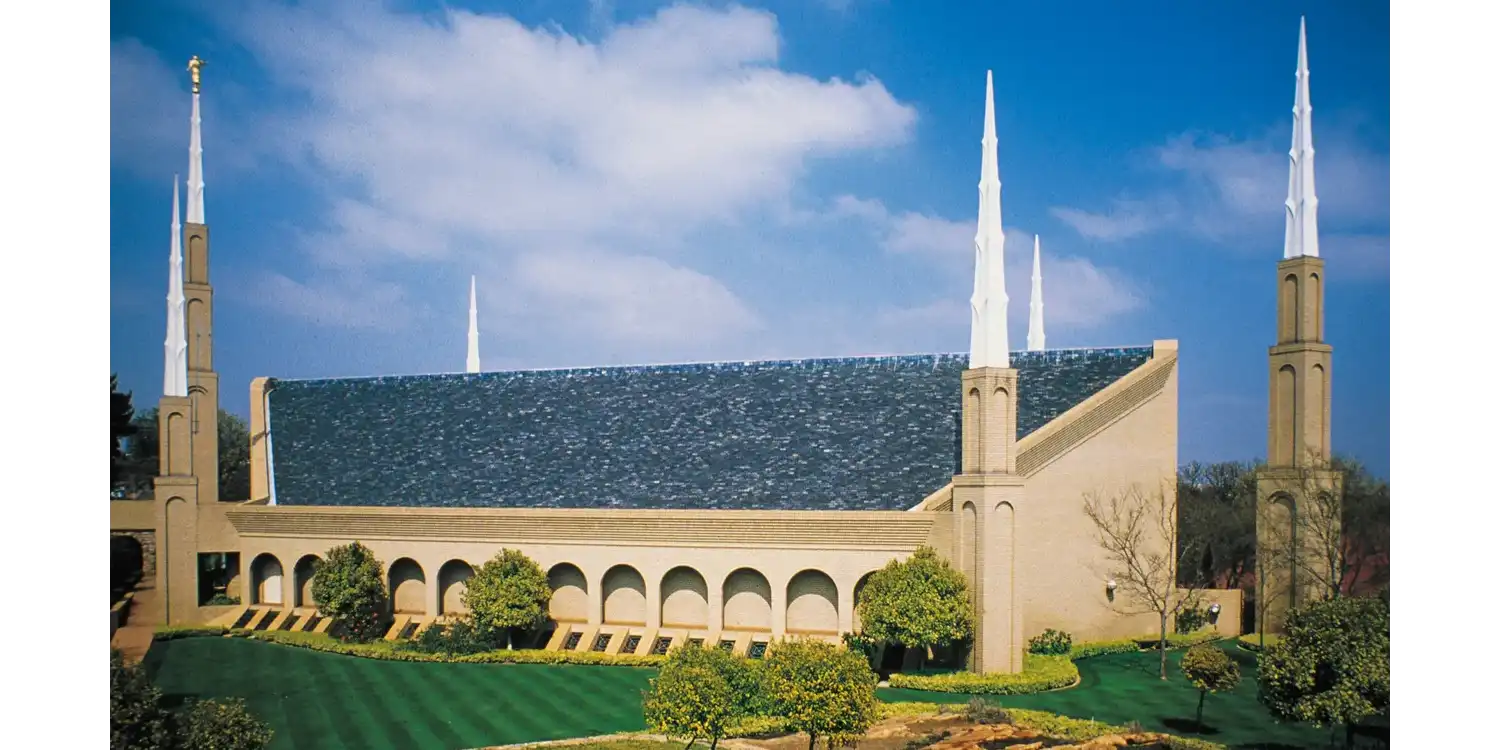
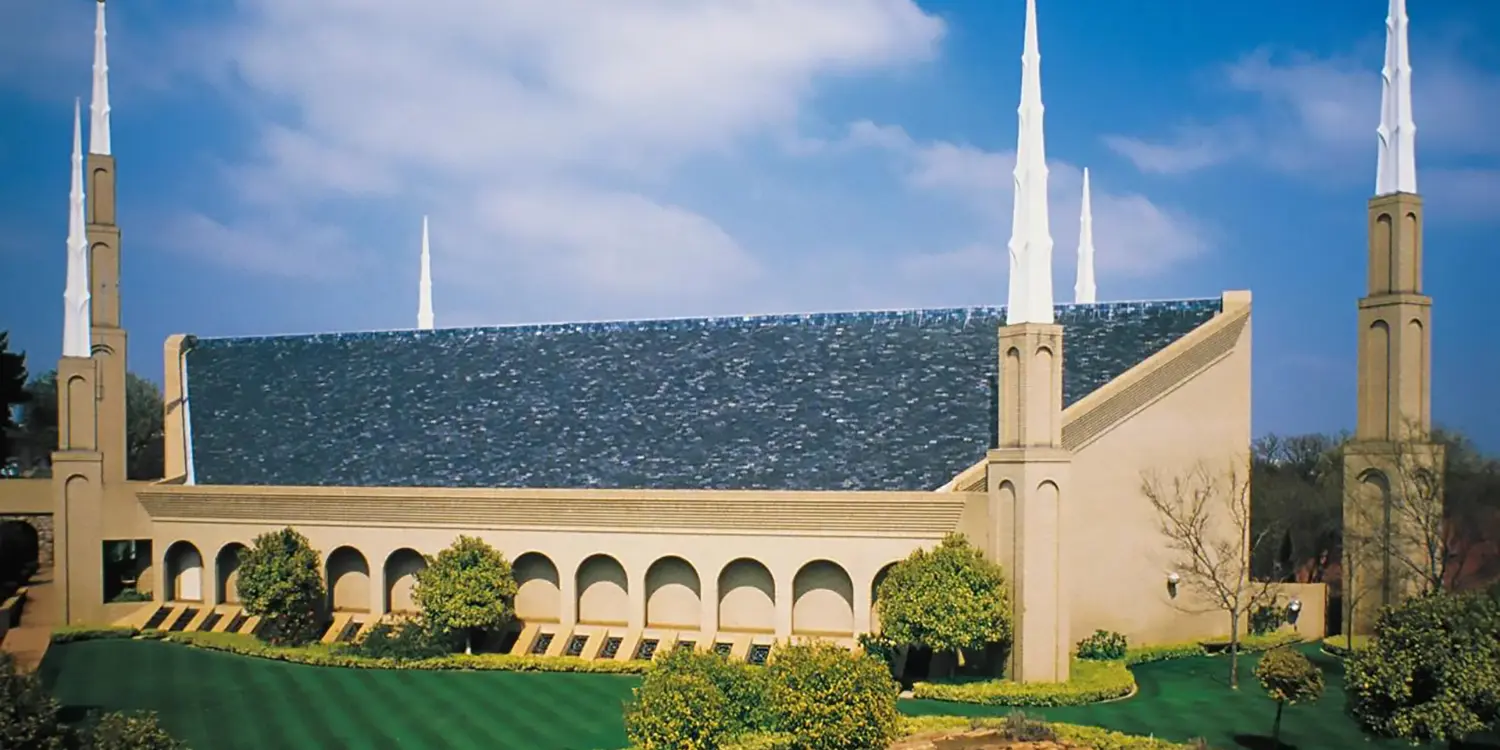
update

diff --git a/styles/base.css b/styles/base.css
@@ -1,3 +1,5 @@
+@import url('https://fonts.googleapis.com/css2?family=Great+Vibes&display=swap');
+
 body {
     font-family: 'Roboto', sans-serif;
     margin: 0;
@@ -109,7 +111,6 @@ main {
     display: grid;
     grid-template-columns: 1fr;
     gap: 20px;
-    grid-column: 1 / 3;
 }
 
 .hero {
@@ -117,29 +118,53 @@ main {
     justify-content: center;
     align-items: center;
     padding: 20px;
-}
-
-.hero-content {
-    display: flex;
+    margin: 10px auto;
+    margin-right: 10px;
+	position: relative;
+	height: 300px;
     flex-direction: column;
     align-items: center;
     width: 100%;
     max-width: 100%; /* Restrict max width on large screens */
 }
 
-.hero-content img {
-    width: 100%;
+.hero img {
+    max-width: 1500px;
     height: auto;
     border-radius: 10px;
-    margin-bottom: 20px;
+    margin-bottom: 10px;
+	width: 100%;
+	height: auto;
+	object-fit: cover;
 }
 
-.hero-content h1 {
+.herolabel {
+	position: absolute;
+	top: 30px;
+	left: 30px;
+	background: radial-gradient(#fff, #4D5B97);
+	border: 1px solid rgba(0,0,0,.75);
+	padding: 1.2rem;
+	box-shadow: 0 0 3rem #fff;
+	opacity: 0.75;
+	/* Buenas */
+}
+
+.herolabel p {
+	margin: 0;
+	padding: .25rem;
+	font-weight: 700;
+	font-size: 1.5rem;
+	font-family:"Great Vibes", serif;
+}
+
+.title h1 {
     text-align: center;
     font-family: times, serif;
     font-size: 2rem;
     color: #222;
 }
+
 
 .card,
 .card1 {

diff --git a/styles/larger.css b/styles/larger.css
@@ -26,22 +26,23 @@
     .hero {
         grid-column: 1 / span 2;
         grid-row: 1;
-    }
-
-    .hero-content {
         max-width: 100%;
         height: auto;
     }
     
-    .hero-content img {
+    .hero img {
         width: 100%;
         height: auto;
         max-width: 100%;
-    } 
+    }
+
+    .herolabel {
+        position:absolute;
+    }
     
-    .hero-content h1 {
+    .title {
         grid-column: 1 / span 2;
-        grid-row: 1;
+        grid-row: 2;
         text-align: center;
         font-size: 2.5rem;
     }
@@ -49,7 +50,7 @@
     .card,
     .card1 {
         grid-column: auto;
-        grid-row: 2;
+        grid-row: 3;
     }
 
     .card-banner {
@@ -64,7 +65,7 @@
 
     .edin-map {
         grid-column: 1 / span 2;
-        grid-row: 3;
+        grid-row: 4;
         margin-top: 10px;
         margin-bottom: 10px;
     }
@@ -75,7 +76,7 @@
         width: 1500px;
         height: 600px; /* Increase height for large screens */
         grid-column: 1 / span 2;
-        grid-row: 3;
+        grid-row: 4;
     }
 }
 

diff --git a/index.html b/index.html
@@ -45,12 +45,20 @@
         </ul>
     </nav>
     <main>
-        <Section class="hero">
-            <div class="hero-content">
-                <img src="images/hero.webp" alt="Rome Temple" loading="lazy" width="500" height="400">
-                <h1>WDD 230: Web Frontend Development</h1>   
+    </div>
+        <div class="hero">
+            <picture>
+                <source srcset="images/hero-small.webp" media="(max-width=400px)">
+                <source srcset="images/hero-large.webp" media="(min-width=401px)">
+                <img src="images/hero-large.webp" alt="Temple image" width="960" height="640">
+            </picture>
+             <div class="herolabel">
+                <p>Rome Italy Temple</p>
             </div>
-        </Section>
+        </div>
+        <div class="title">
+            <h1>WDD 230: Web Frontend Development</h1> 
+        </div>
 
         <section class="card">
             <div class="card-banner">

diff --git a/week03/styles/responsive-images.css b/week03/styles/responsive-images.css
@@ -1,7 +1,39 @@
+@import url('https://fonts.googleapis.com/css2?family=Great+Vibes&display=swap');
+
+main {
+	max-width: 670px;
+	margin: 0 auto;
+}
+
+.hero {
+	margin: 10px auto;
+	position: relative;
+	border: 1px solid rgba(0,0,0,.1);
+	height: 300px;
+}
+
 .hero img {
-    width: 100%;
-    height: auto;
-  }
-.hero h1 {
-  text-align: center;
+	width: 100%;
+	height: 100%;
+	object-fit: cover;
+}
+
+.herolabel {
+	position: absolute;
+	top: 30px;
+	left: 30px;
+	background: radial-gradient(#fff, #4D5B97);
+	border: 1px solid rgba(0,0,0,.75);
+	padding: 1rem;
+	box-shadow: 0 0 3rem #fff;
+	opacity: 0.75;
+	/* Buenas */
+}
+
+.herolabel p {
+	margin: 0;
+	padding: .25rem;
+	font-weight: 700;
+	font-size: 1.5rem;
+	font-family:"Great Vibes", serif;
 }

diff --git a/week03/responsive-images.html b/week03/responsive-images.html
@@ -15,8 +15,12 @@
                 <source srcset="images/hero-small.webp" media="(max-width: 500px)">
                 <source srcset="images/hero-medium.webp" media="(max-width: 1000px)">
                 <img src="images/hero-large.webp" alt="Temple image" width="1500" height="750">
-                <h1>Johannesburg Temple<h1>
             </picture>
+            <div class="herolabel">
+                <p>Johannesburg Temple</p>
+            </div>
+        </div>
+    </main>
         </div>
     </main>
     
